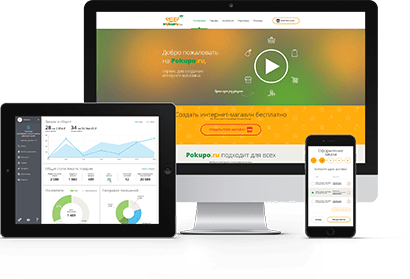
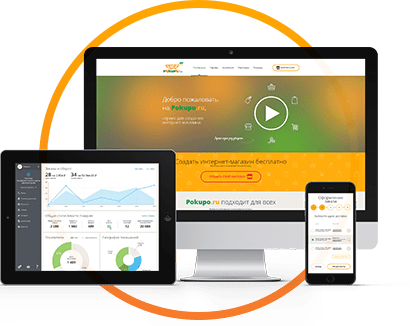
Добавлены стили для раздела control-panel

diff --git a/index.html b/index.html
@@ -65,11 +65,11 @@
 
   <section class="control-panel">
     <div class="container">
-      <h2>Панель управления – <span>доступ всюду по одному клику</span></h2>
+      <h2>Панель управления <span>–<br>доступ всюду по одному клику</span></h2>
       <ul>
-        <li>полноценная настройка всех элементов интернет-магазина</li>
-        <li>обучающие видео по каждому разделу</li>
-        <li>база знаний Pokupo и техподдержка в помощь по всем вопросам</li>
+        <li><strong>полноценная настройка</strong> всех элементов интернет-магазина</li>
+        <li><strong>обучающие видео</strong> по каждому разделу</li>
+        <li><strong>база знаний Pokupo</strong> и техподдержка в помощь по всем вопросам</li>
       </ul>
     </div>
   </section>

diff --git a/styles/main.css b/styles/main.css
@@ -265,6 +265,50 @@ a.open-shop {
   background-position: -84px -100px;
 }
 
+/* Control panel */
+
+.control-panel h2 {
+  width: 475px;
+  text-align: left;
+  margin-left: 117px;
+  margin-bottom: 24px;
+}
+
+.control-panel ul {
+  position: relative;
+  width: 575px;
+  margin-bottom: 120px;
+  padding-left: 119px;
+}
+
+.control-panel ul::after {
+  position: absolute;
+  top: -179px;
+  right: -536px;
+  content: "";
+  display: block;
+  width: 410px;
+  height: 326px;
+  background-image: url("../images/gadgets.png");
+}
+
+.control-panel li {
+  position: relative;
+  margin-bottom: 7px;
+}
+
+.control-panel li::before {
+  position: absolute;
+  top: 9px;
+  left: -10px;
+  content: "";
+  display: block;
+  width: 4px;
+  height: 4px;
+  background-color: #000;
+  border-radius: 50%;
+}
+
 /* Partner program */
 
 .partner-program__sale li {
